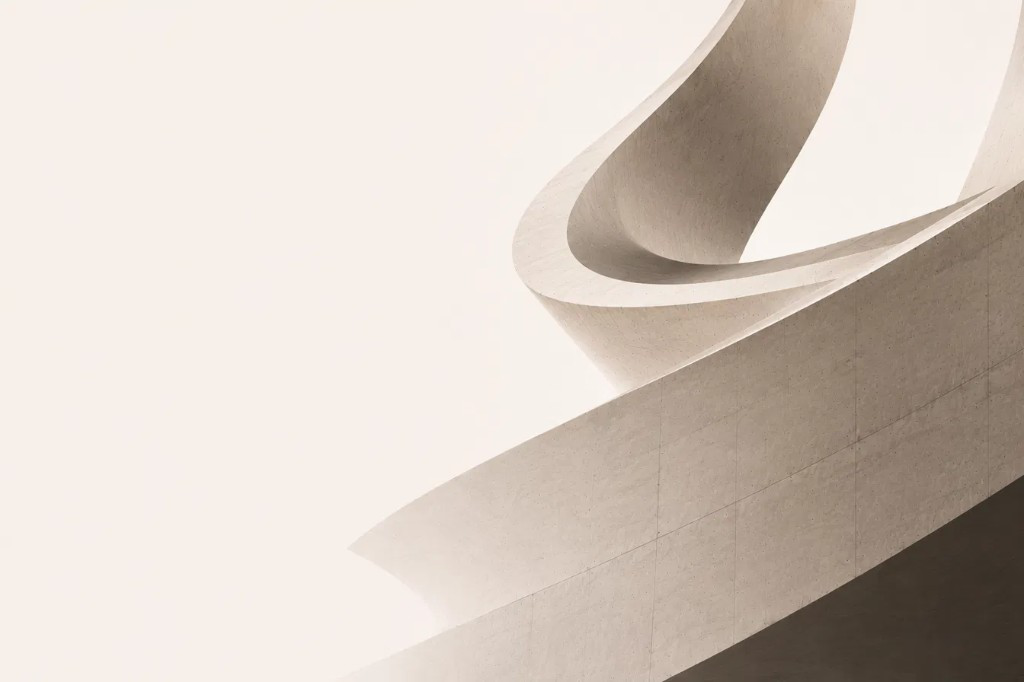
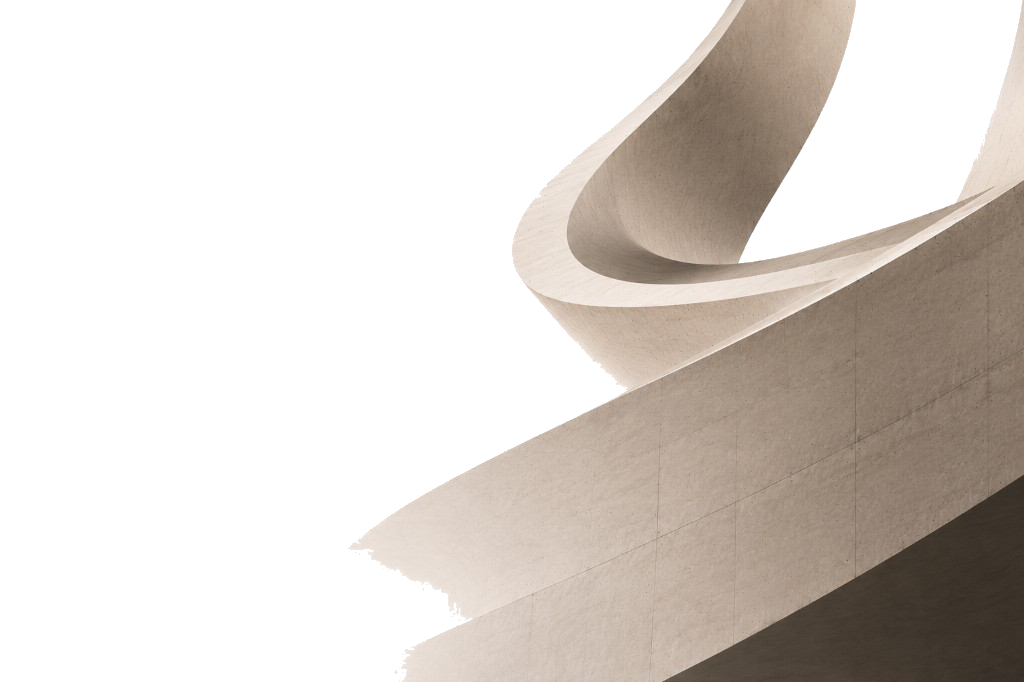
Blend hero ribbon into page cream with a real cutout.
Replace the opaque rectangular PNG with a transparent form cutout and let the art layer run under the bottom divider so the figure no longer reads as a boxed photo.

diff --git a/src/components/home/Hero.tsx b/src/components/home/Hero.tsx
@@ -87,9 +87,9 @@ export default function Hero() {
       />
 
       {/*
-        Client asset: landscape cream + ribbon on the right.
-        Never object-cover / negative bleed — that zooms into texture.
-        contain + right/bottom + air around the box = full silhouette at gallery scale.
+        Transparent cutout on page cream — no panel/box behind the figure.
+        Full-bleed art layer so the ribbon passes under the bottom divider
+        (bar sits above via z-index; figure is not cropped to a framed column).
       */}
       <div
         ref={artRef}
@@ -98,7 +98,7 @@ export default function Hero() {
         aria-hidden="true"
       >
         <div
-          className="absolute top-[9%] right-0 bottom-[7%] left-[4%] transition-transform duration-500 ease-out will-change-transform sm:top-[10%] sm:bottom-[8%] sm:left-[8%] lg:top-[11%] lg:bottom-[9%] lg:left-[12%]"
+          className="absolute inset-0 transition-transform duration-500 ease-out will-change-transform"
           style={{
             transform: `rotateX(${tilt.x}deg) rotateY(${tilt.y}deg)`,
           }}
@@ -108,8 +108,9 @@ export default function Hero() {
             alt=""
             fill
             priority
-            sizes="(max-width: 1024px) 100vw, 75vw"
+            sizes="100vw"
             className="object-contain object-right object-bottom"
+            style={{ background: "transparent" }}
           />
         </div>
       </div>
@@ -219,8 +220,8 @@ export default function Hero() {
           </BidiBlock>
         </div>
 
-        {/* Bottom bar — radar mark + long scroll cue (no TRUSTED BY) */}
-        <div className="chrome-ltr relative z-10 mx-[var(--page-pad)] flex items-center justify-between gap-4 border-t border-[rgba(80,70,60,0.14)] py-3.5">
+        {/* Bottom bar — thin rule over the figure (figure continues underneath) */}
+        <div className="chrome-ltr relative z-10 mx-[var(--page-pad)] flex items-center justify-between gap-4 border-t border-[rgba(80,70,60,0.14)] bg-transparent py-3.5">
           <div className="flex min-w-0 items-center gap-3">
             <span
               className="relative inline-flex h-4 w-4 shrink-0 items-center justify-center"
